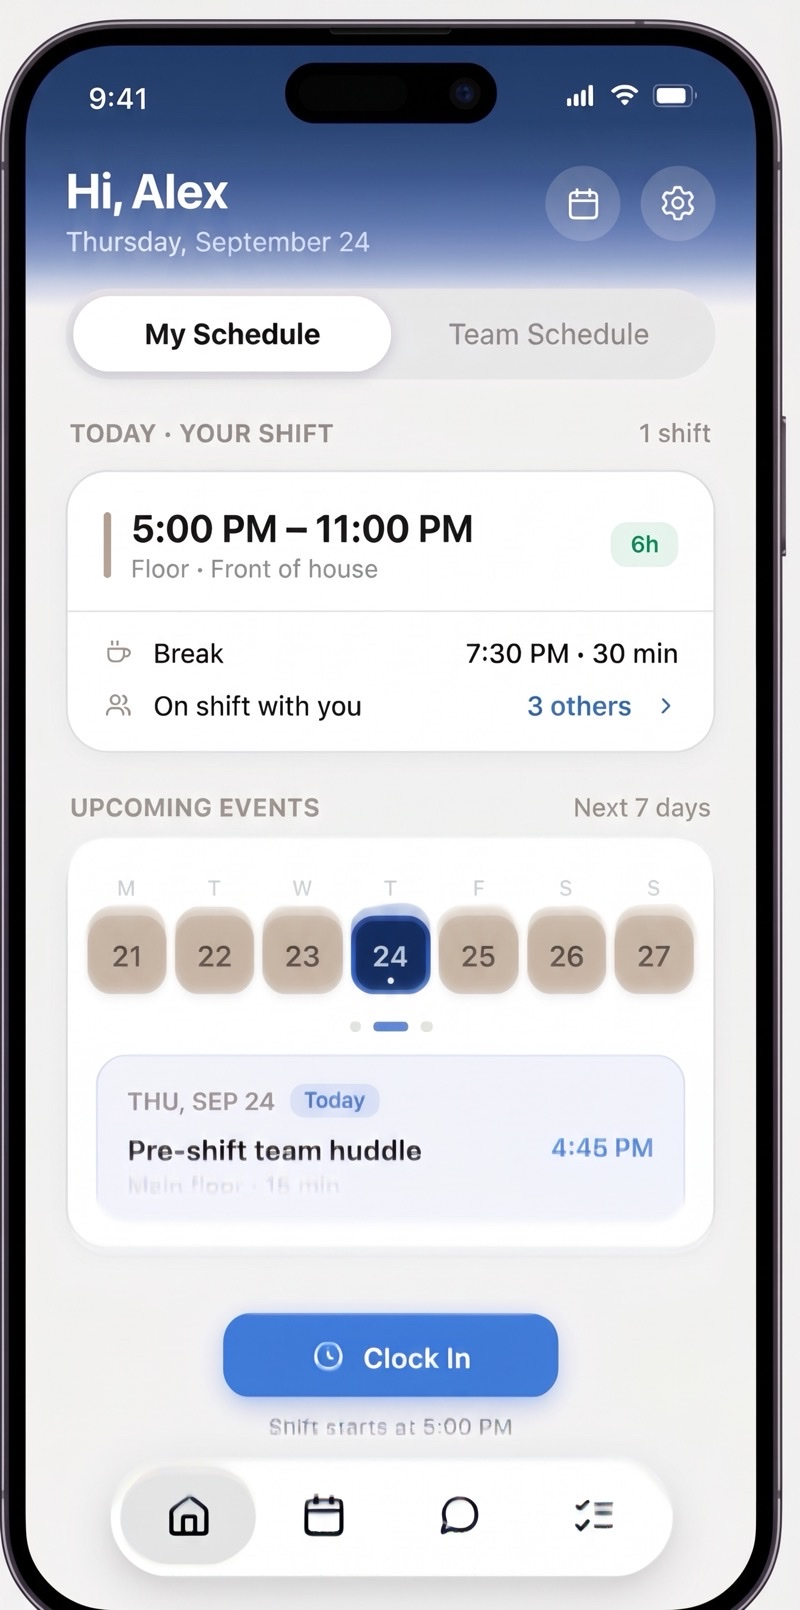
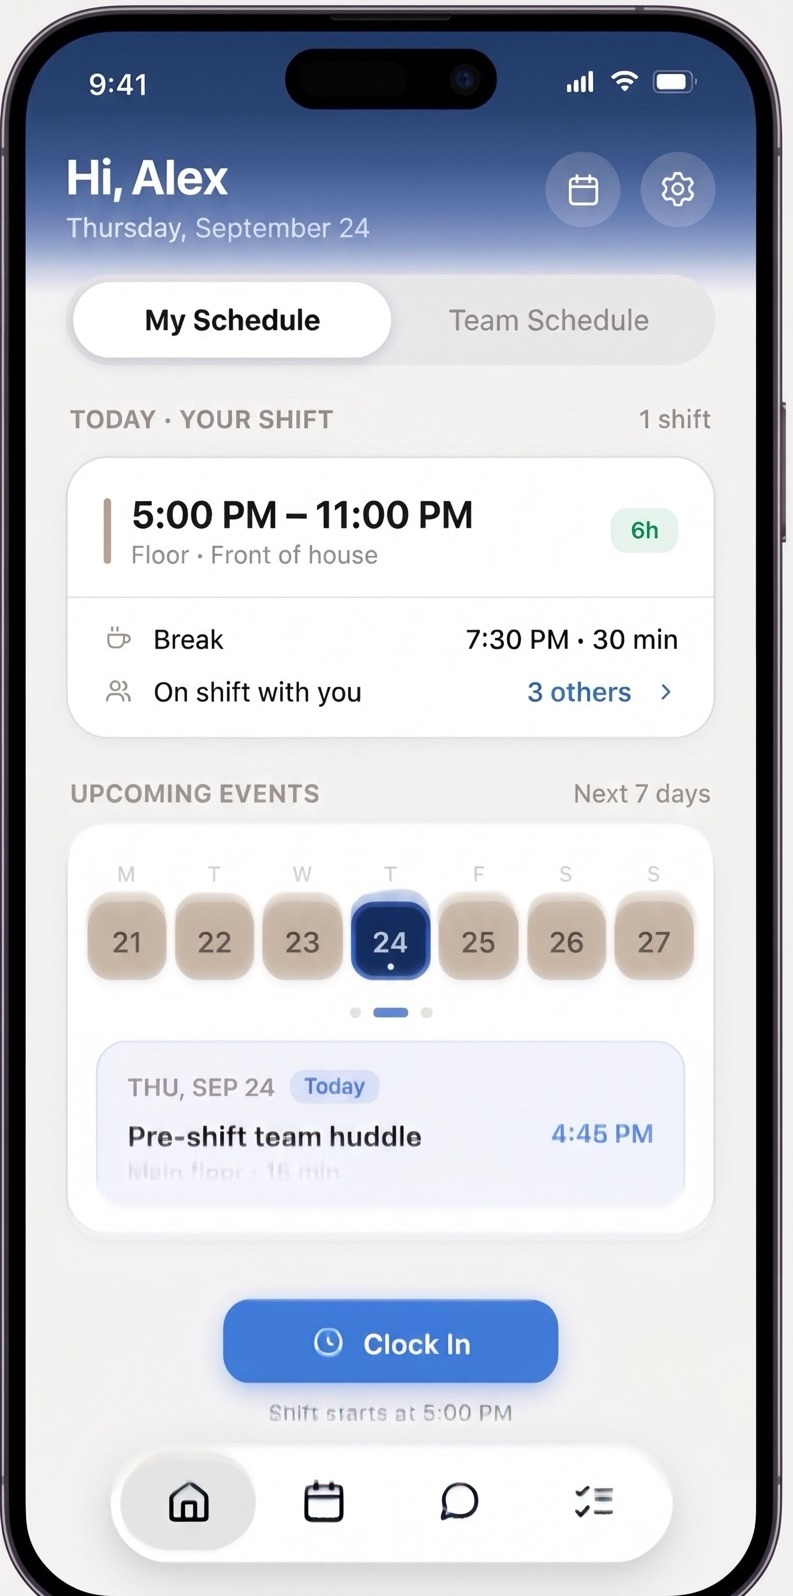
Tighten phone screenshot crop and add illustrated hand
The app screenshot had a thin light-gray margin baked in, which read
as an unwanted white border against the dark showcase background.
Crop it tight to the phone's edges and mask the residual rounded-
corner slivers with a matching border-radius on the img.

Add a flat-illustration hand (SVG, warm-neutral gradient) cupping the
phone from below, layered behind/in front of the phone frame so the
fingers appear to wrap over the right edge and the thumb over the
left — consistent with the site's existing icon style rather than a
photorealistic composite.

diff --git a/en-home.html b/en-home.html
@@ -192,9 +192,12 @@ h1 .accent .w{background:linear-gradient(120deg,var(--blue-400) 0%,var(--blue-20
 .phone-copy .eyebrow{color:var(--blue-400)}
 .phone-copy .section-h2{color:#fff;margin-bottom:18px}
 .phone-copy>p{font-size:16px;color:rgba(255,255,255,0.7);line-height:1.7;max-width:440px}
-.phone-stage{perspective:1600px;display:flex;justify-content:center}
-.phone-frame{width:280px;position:relative;transform:none;transform-style:preserve-3d;will-change:transform;filter:drop-shadow(0 40px 90px rgba(0,0,0,0.5))}
-.phone-frame img{display:block;width:100%;height:auto}
+.phone-stage{perspective:1600px;display:flex;justify-content:center;position:relative;padding-bottom:60px}
+.phone-frame{width:280px;position:relative;z-index:1;transform:none;transform-style:preserve-3d;will-change:transform;filter:drop-shadow(0 40px 90px rgba(0,0,0,0.5))}
+.phone-frame img{display:block;width:100%;height:auto;border-radius:36px}
+.phone-hand{position:absolute;left:50%;bottom:-4px;width:340px;height:auto;transform:translateX(-50%);pointer-events:none;filter:drop-shadow(0 20px 30px rgba(0,0,0,0.35))}
+.phone-hand-back{z-index:0}
+.phone-hand-front{z-index:2}
 
 .name-input{display:block;width:100%;max-width:470px;margin:0 auto 10px;height:48px;background:rgba(255,255,255,0.05);border:1px solid rgba(255,255,255,0.12);border-radius:100px;padding:0 22px;font-size:16px;font-family:var(--font-sans);color:#fff;outline:none;text-align:center;transition:border-color .15s,background .15s}
 .name-input::placeholder{color:rgba(255,255,255,0.28)}
@@ -400,6 +403,7 @@ footer p{font-size:13px;color:rgba(255,255,255,0.55)}
   .phone-inner{gap:40px;text-align:center}
   .phone-copy>p{margin:0 auto}
   .phone-frame{width:220px}
+  .phone-hand{width:270px}
   .stats-inner{flex-wrap:wrap}
   .stat{flex:1 1 45%;padding:12px 8px;border-right:none}
   .stat-num{font-size:28px}
@@ -609,9 +613,31 @@ footer p{font-size:13px;color:rgba(255,255,255,0.55)}
       <p data-anim="up" data-i="phone_p">Your team checks their schedule, requests time off, or swaps a shift in one tap — synced in real time with the manager's schedule.</p>
     </div>
     <div class="phone-stage" id="phoneStage">
+      <svg class="phone-hand phone-hand-back" viewBox="0 0 360 440" aria-hidden="true">
+        <defs>
+          <linearGradient id="handGradBack" x1="0" y1="0" x2="0" y2="1">
+            <stop offset="0%" stop-color="#EAD0B2"/>
+            <stop offset="100%" stop-color="#C99B72"/>
+          </linearGradient>
+        </defs>
+        <path d="M78,205 Q60,180 90,160 Q120,145 180,145 Q240,145 270,160 Q300,180 282,205 Q310,250 300,310 Q292,370 250,400 Q210,422 180,422 Q150,422 110,400 Q68,370 60,310 Q50,250 78,205 Z" fill="url(#handGradBack)"/>
+      </svg>
       <div class="phone-frame" id="phoneFrame">
-        <img src="/assets/img/app-phone-en.jpg" alt="Timeaxe AI app showing today's shift, upcoming events, and a clock-in button" width="800" height="1610" loading="lazy">
+        <img src="/assets/img/app-phone-en.jpg" alt="Timeaxe AI app showing today's shift, upcoming events, and a clock-in button" width="793" height="1596" loading="lazy">
       </div>
+      <svg class="phone-hand phone-hand-front" viewBox="0 0 360 440" aria-hidden="true">
+        <defs>
+          <linearGradient id="handGradFront" x1="0" y1="0" x2="1" y2="0.3">
+            <stop offset="0%" stop-color="#F0D6B8"/>
+            <stop offset="100%" stop-color="#D2A47A"/>
+          </linearGradient>
+        </defs>
+        <path d="M300,140 Q294,168 298,196" stroke="url(#handGradFront)" stroke-width="36" stroke-linecap="round" fill="none"/>
+        <path d="M307,222 Q301,252 306,282" stroke="url(#handGradFront)" stroke-width="34" stroke-linecap="round" fill="none"/>
+        <path d="M308,306 Q302,332 307,358" stroke="url(#handGradFront)" stroke-width="32" stroke-linecap="round" fill="none"/>
+        <path d="M301,380 Q297,398 300,416" stroke="url(#handGradFront)" stroke-width="28" stroke-linecap="round" fill="none"/>
+        <path d="M62,222 Q28,248 30,290" stroke="url(#handGradFront)" stroke-width="50" stroke-linecap="round" fill="none"/>
+      </svg>
     </div>
   </div>
 </div>
